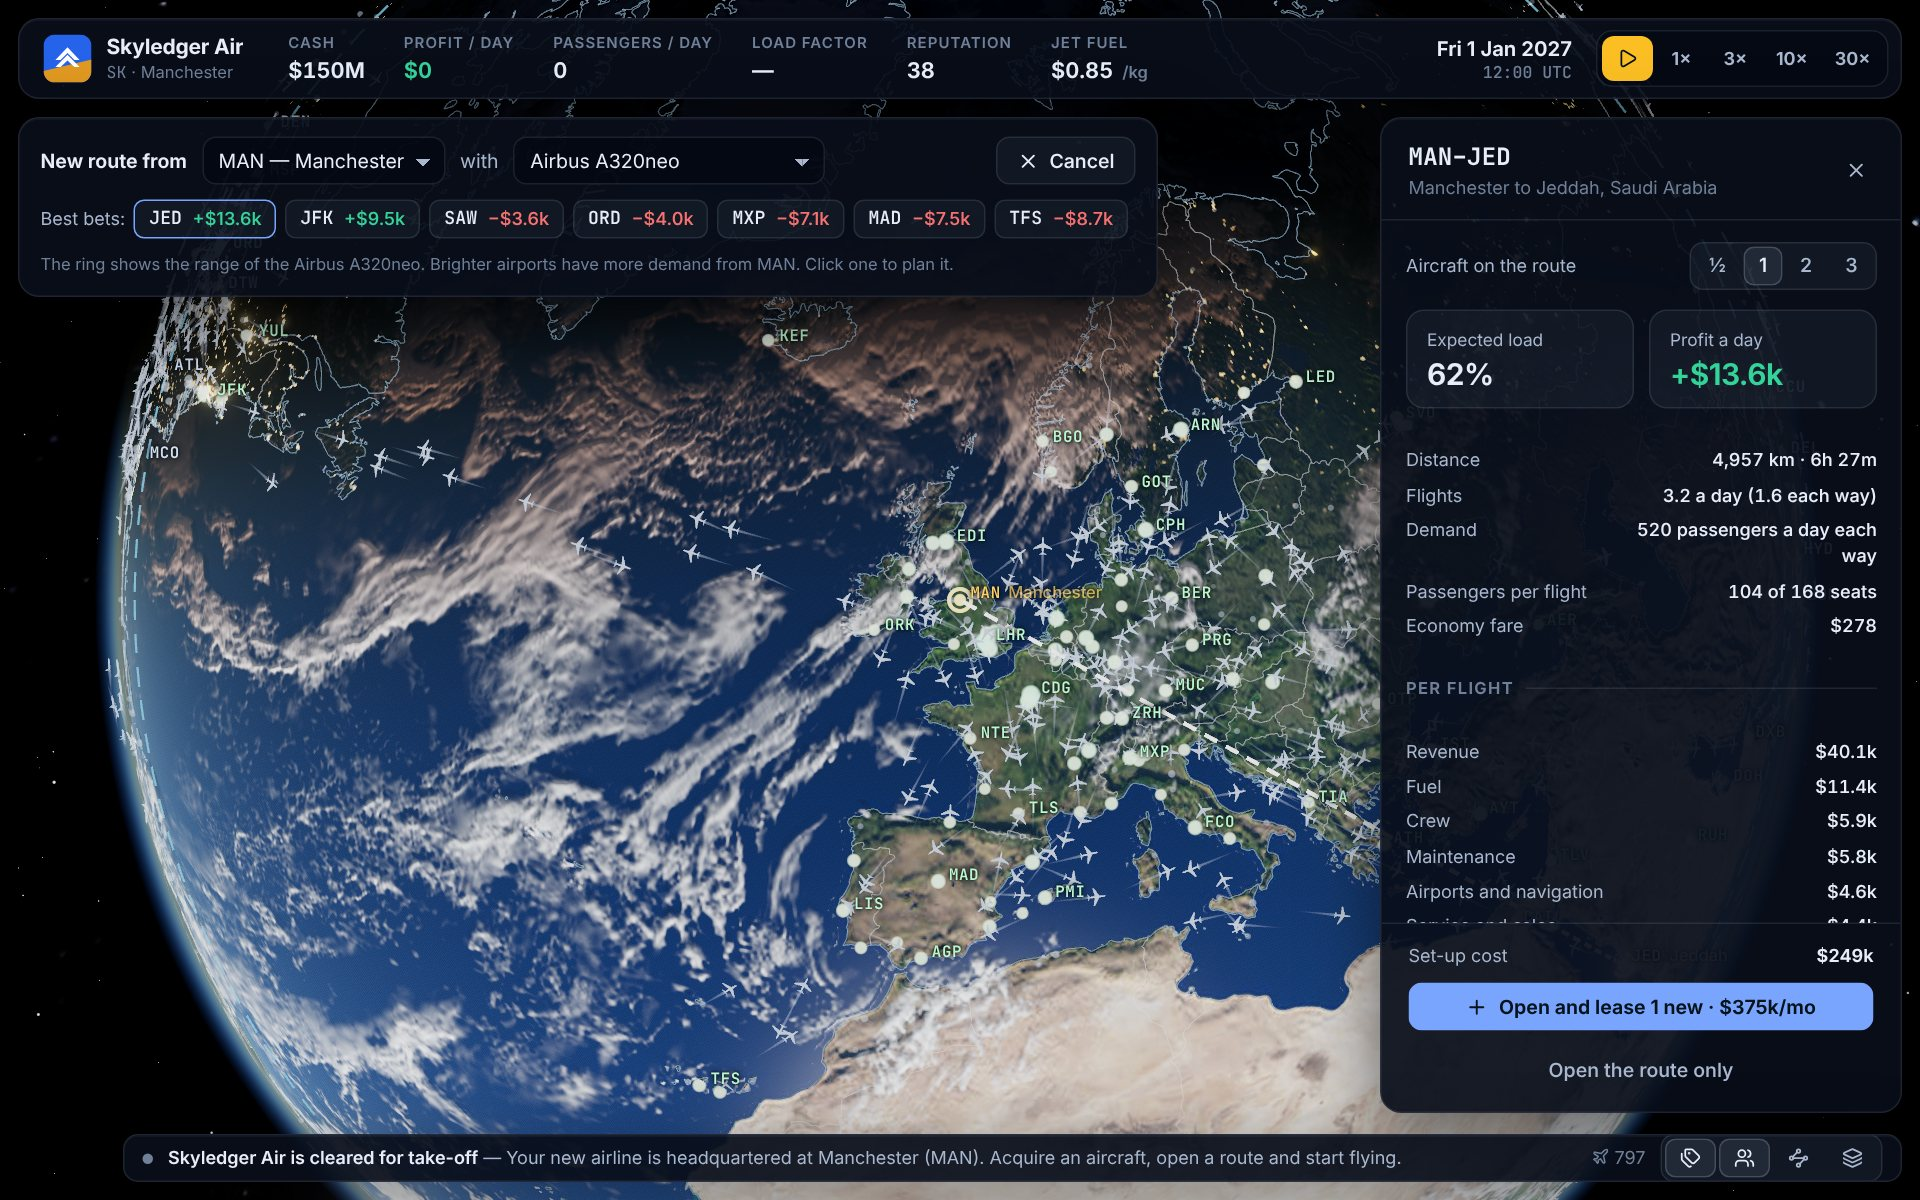
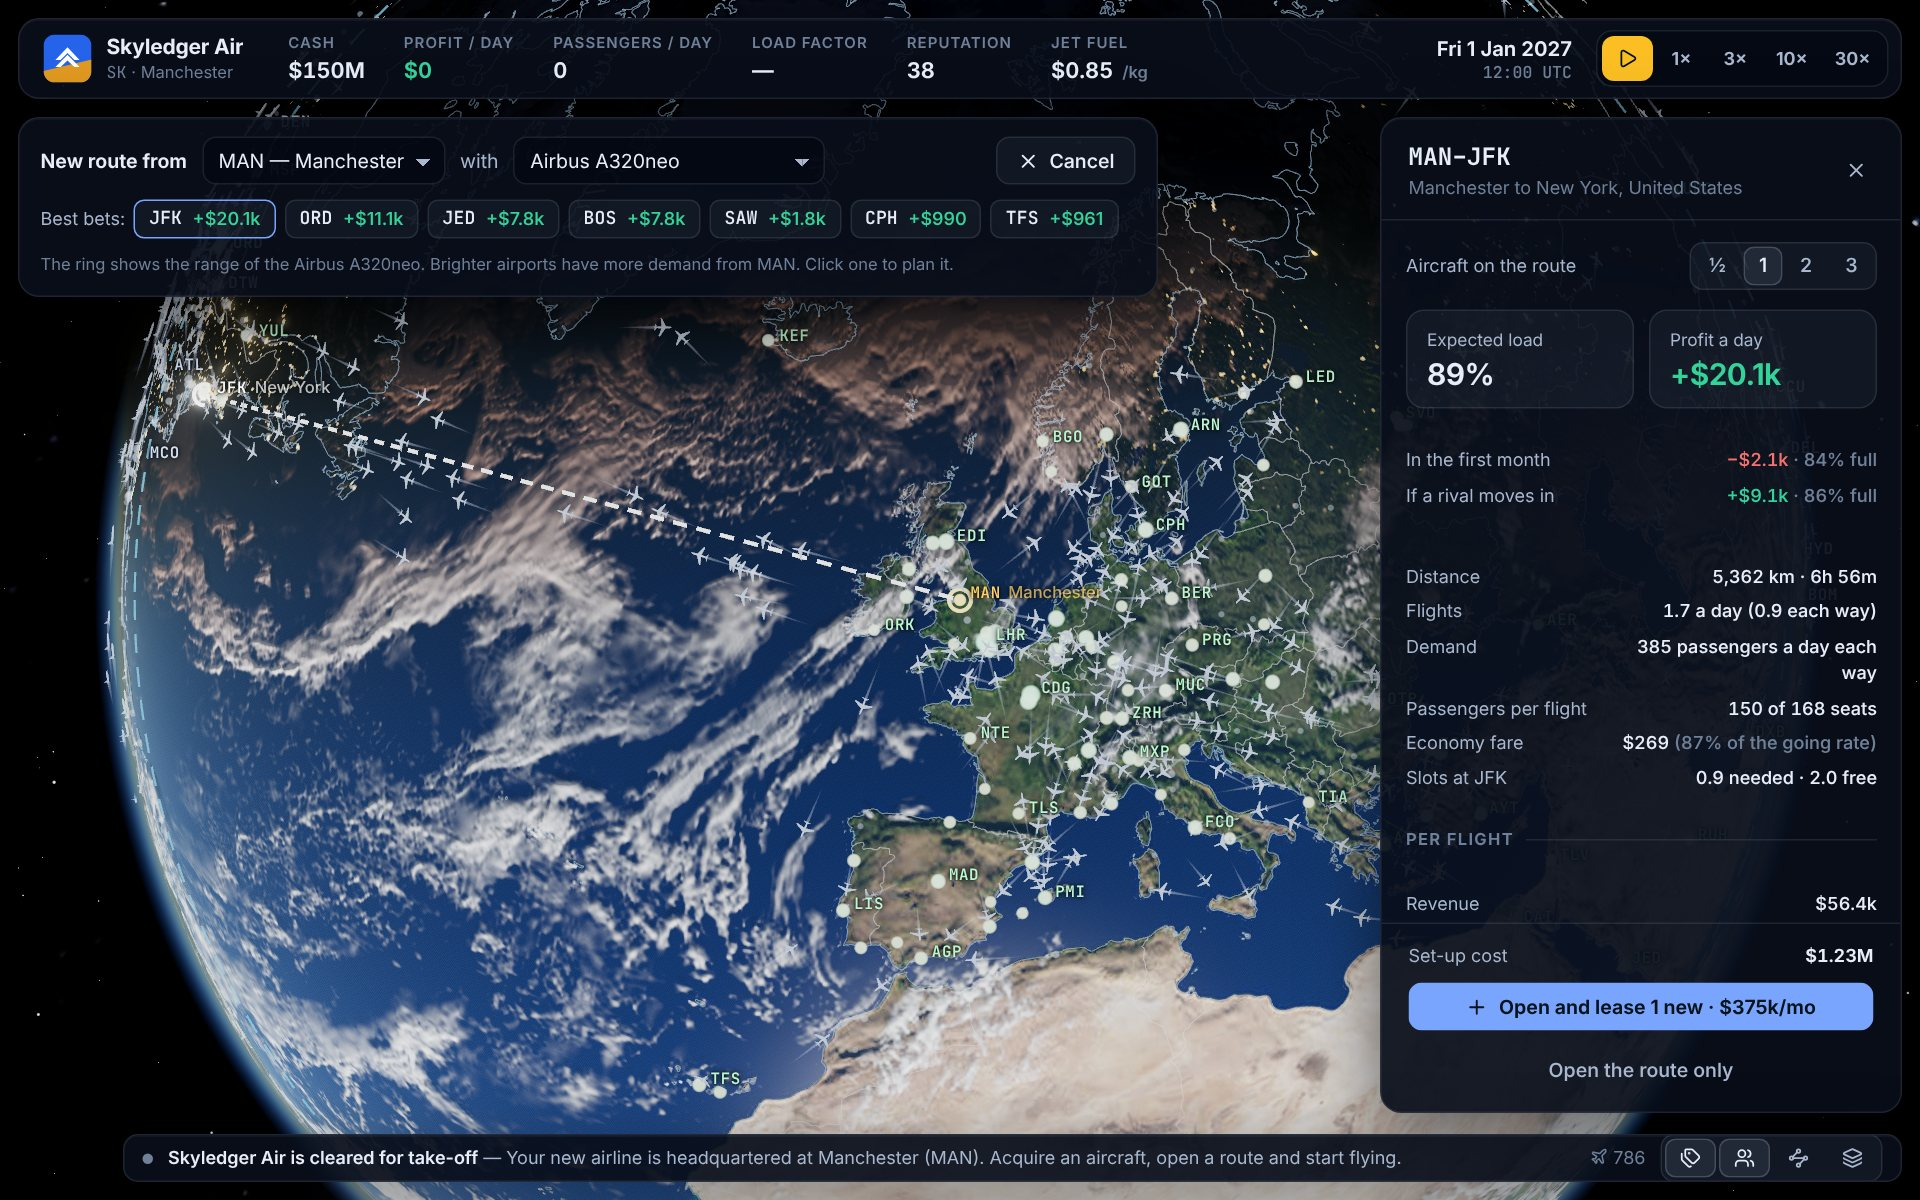
Grandfather slots in old saves; refresh screenshots and docs
- Loading a save from before slots existed gives the airline the slots its
  flights already use, plus its home allocation.
- The planner no longer asks for more slots at an aircraft's own base when
  that aircraft is only splitting its day with another route.
- The airline setup screen says what a slot-limited home base means and
  how many slots it starts with.
- README screenshots of the planner and a route panel show the forecast
  range, managed fares and a launch forecast set beside the result.

Claude-Session: https://claude.ai/code/session_01WnsWqhUYYydujXJ2JcjYEr

diff --git a/src/ui/screens/NewGame.tsx b/src/ui/screens/NewGame.tsx
@@ -9,6 +9,7 @@ import type { Difficulty, Livery, RegionId } from '../../sim/types';
 import { integer, money } from '../app/format';
 import { newGame, setState } from '../app/store';
 import { Emblem, Logo, Seg } from '../components/ui';
+import { homeSlots } from '../../sim/slots';
 import { AircraftPreview } from '../components/AircraftPreview';
 
 const PRIMARY = ['#2563eb', '#0ea5e9', '#14b8a6', '#16a34a', '#eab308', '#f97316', '#dc2626', '#db2777', '#7c3aed', '#0f172a', '#7f1d1d', '#065f46'];
@@ -179,13 +180,16 @@ export function NewGame() {
                 <dt>Local market</dt><dd>{airport.pax.toFixed(1)}M passengers a year</dd>
                 <dt>Longest runway</dt><dd>{integer(airport.runway)} m{airport.elev > 1200 ? ` at ${integer(airport.elev)} m elevation` : ''}</dd>
                 <dt>Rivals based here</dt><dd>{rivals.length ? rivals.map((r) => r.name).join(', ') : 'None'}</dd>
+                {airport.slotLimited && <><dt>Slots</dt><dd>You start with {homeSlots(airport)} departures a day</dd></>}
               </dl>
               <div className="small muted">
                 Strongest markets: {markets.map((m) => `${m.airport.id} (${integer(m.demand)}/day)`).join(' · ')}
               </div>
               <div className="tiny dim">
-                {airport.tier >= 4
-                  ? 'A big market with plenty of demand — and established competitors, high fees and scarce slots.'
+                {airport.slotLimited
+                  ? 'One of the world\'s most congested airports: firm fares and a big market, but every departure needs a slot, and more of them cost dearly. A demanding place to start.'
+                  : airport.tier >= 4
+                  ? 'A big market with plenty of demand, and established competitors and high fees to match.'
                   : airport.tier >= 3
                     ? 'A solid mid-size market: room to grow without fighting the giants on day one.'
                     : 'A small market. Thin routes suit turboprops and regional jets; growth will take patience.'}

diff --git a/src/sim/sim.ts b/src/sim/sim.ts
@@ -17,7 +17,7 @@ import {
 import type { Market, Offer } from './market';
 import { checkObjectives, initialObjectives } from './objectives';
 import { faresManaged, manageFares, tuneFares } from './pricing';
-import { grantSlots, homeSlots } from './slots';
+import { grantSlots, homeSlots, slotsUsed } from './slots';
 import { stepAircraft } from './ops';
 import { emptyStats } from './actions';
 import { dayIndex, formatMonth, monthIndex } from './time';
@@ -127,6 +127,7 @@ export class Sim {
       today: emptyLedger(), month: emptyLedger(), history: [], daily: [],
       totalPax: 0, totalFlights: 0, bankrupt: false, insolventDays: 0,
       nextFlightNo: 101, nextReg: 1, founded: 0,
+      autoFares: true, slots: {},
     };
     grantSlots(player, opts.hq, homeSlots(AIRPORT[opts.hq]));
     // Begin at breakfast time at the home base, so the first view of it is in daylight.
@@ -174,7 +175,24 @@ export class Sim {
     const game = JSON.parse(json) as Game;
     if (!game || typeof game !== 'object' || !Array.isArray(game.airlines)) throw new Error('Not a save file');
     if (game.version !== SAVE_VERSION) throw new Error(`Save file is from an incompatible version (${game.version})`);
-    return new Sim(game);
+    const sim = new Sim(game);
+    sim.adopt();
+    return sim;
+  }
+
+  /** Brings a save from before slots existed up to date: what was already flying keeps its slots. */
+  private adopt(): void {
+    const p = this.player;
+    if (p.slots) return;
+    p.slots = {};
+    for (const ap of AIRPORTS) {
+      if (!ap.slotLimited) continue;
+      const held = Math.max(ap.id === p.hq ? homeSlots(ap) : 0, Math.ceil(slotsUsed(this, p, ap.id) - 0.05));
+      if (held > 0) {
+        p.slots[ap.id] = held;
+        this.game.flags[`slots:${ap.id}`] = 1;
+      }
+    }
   }
 
   // ───────────── Lookups ─────────────

diff --git a/tests/sim.test.ts b/tests/sim.test.ts
@@ -263,6 +263,29 @@ describe('simulation', () => {
     expect(sellSlot(sim, 0, 'LHR').ok).toBe(true);
   });
 
+  it('grandfathers slots when loading a save from before slots existed', () => {
+    const sim = Sim.create({ name: 'Test Air', code: 'TA', hq: 'LHR', livery: LIVERY, difficulty: 'standard', seed: 51 });
+    sim.player.cash += 1e9;
+    const route = openRoute(sim, 0, 'LHR', 'AMS');
+    if (!route.ok) throw new Error('setup failed');
+    buySlots(sim, 0, 'AMS', 6);
+    acquireAircraft(sim, 0, 'a20n', { lease: true });
+    expect(setRotation(sim, sim.fleetOf(0)[0].id, [route.value.id]).ok).toBe(true);
+    const used = slotsUsed(sim, sim.player, 'AMS');
+    expect(used).toBeGreaterThan(3);
+
+    // An old save knows nothing of slots.
+    const old = JSON.parse(sim.serialize());
+    delete old.airlines[0].slots;
+    for (const key of Object.keys(old.flags)) if (key.startsWith('slots:')) delete old.flags[key];
+    const loaded = Sim.load(JSON.stringify(old));
+    expect(slotsHeld(loaded.player, 'LHR')).toBeGreaterThanOrEqual(homeSlots(loaded.airport('LHR')));
+    expect(slotsHeld(loaded.player, 'AMS')).toBeGreaterThanOrEqual(Math.floor(used));
+    // What was flying can keep flying: putting the same rotation back is not refused.
+    const ac = loaded.fleetOf(0)[0];
+    expect(setRotation(loaded, ac.id, [...ac.rotation]).ok).toBe(true);
+  });
+
   it('keeps rivals within their slots', () => {
     const sim = Sim.create({ name: 'Test Air', code: 'TA', hq: 'MAN', livery: LIVERY, difficulty: 'standard', seed: 41 });
     for (let d = 0; d < 120; d++) sim.advance(1440);

diff --git a/src/ui/hud/Planner.tsx b/src/ui/hud/Planner.tsx
@@ -51,7 +51,11 @@ export function Planner() {
   const canLease = leaseCommitment(sim, p) + lease * count <= leaseCapacity(sim, p) && p.cash >= lease * count + setup;
   // Slot-limited airports at either end, and whether the plan fits in the slots held there.
   const slotEnds = to && forecast ? [plan.from, to].filter((id) => AIRPORT[id].slotLimited) : [];
-  const short = to && forecast && !existing ? planShortfall(sim, p, plan.from, to, forecast.estimate.freq, true) : [];
+  // (An aircraft that already flies other routes splits its day: it needs no more slots at its own base.)
+  const sharing = !!aircraft && aircraft.rotation.length > 0;
+  const short = to && forecast && !existing
+    ? planShortfall(sim, p, plan.from, to, forecast.estimate.freq, true).filter((s) => !(sharing && s.airport === plan.from))
+    : [];
   const blocked = short.length > 0;
 
   const launch = (mode: 'only' | 'assign' | 'idle' | 'lease') => {

diff --git a/README.md b/README.md
@@ -177,6 +177,7 @@ resolution when a GPU cannot keep up.
 npm test                 # simulation, demand and balance tests
 npm run typecheck
 REPORT=1 npm run balance # how a simple bot player fares, and what each home base offers
+DIAG=1 npx vitest run tests/diag.test.ts --disable-console-intercept   # modelled vs realised loads
 ```
 
 Useful addresses in development:
